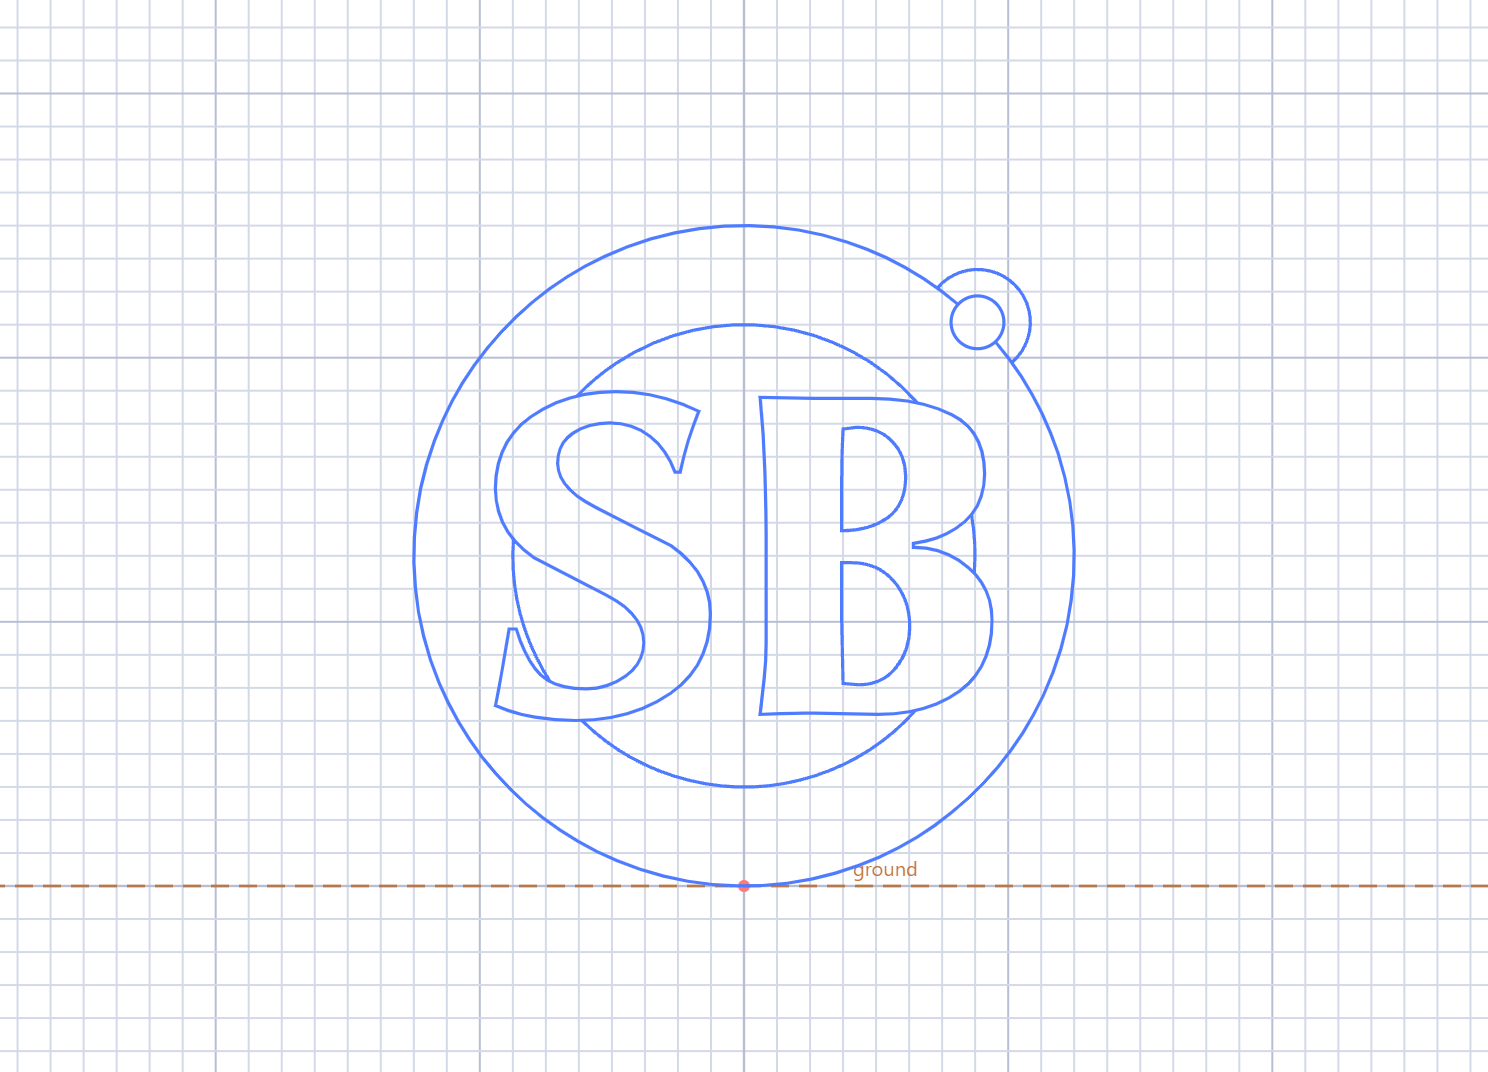
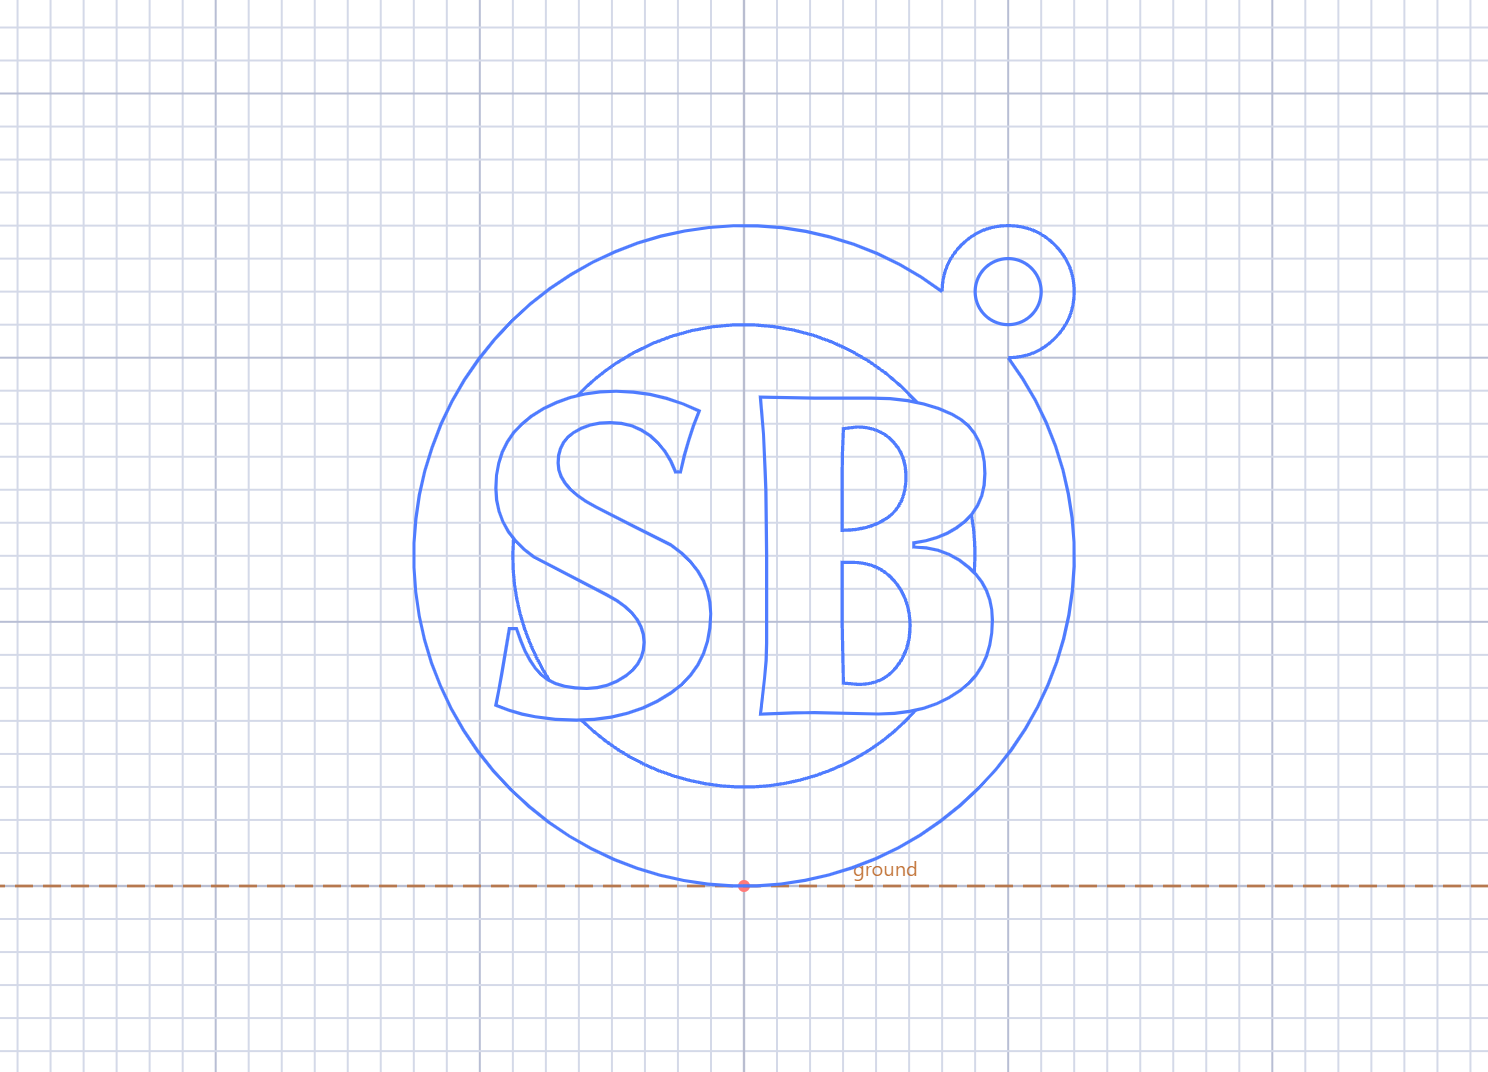
fix(stem-sketch): keychain loop placed clear of the hole; prune stub edges in the region graph; pictures regenerated
- Keychain step 3: the loop is centered on the (1 in, 1 in) grid point
  from the ring's center (r 0.25 / 0.125) instead of ON the outer circle,
  where the circle ran through the loop's hole and a two-click trim left
  the loop bump as a separate region (the loop never got pulled).
- buildPlanarGraph prunes dangling stubs under 1.5 mm: trimmed arcs
  re-tessellate a hair past their cut point and crossed each other.
- All 12 step pictures regenerated with the loop in place.

Changed region(s): [[0.6183, 0.2155, 0.711, 0.3386], [0.6183, 0.4925, 0.6492, 0.5233]]

diff --git a/public/stem-sketch/index.html b/public/stem-sketch/index.html
@@ -10961,10 +10961,30 @@ function buildPlanarGraph(entities, boundary, extraSegs) {
   }
   // Dedupe identical undirected edges
   const seen = new Set();
-  const edges = [];
+  let edges = [];
   for (const e of rawEdges) {
     const k = e.a < e.b ? `${e.a},${e.b}` : `${e.b},${e.a}`;
     if (!seen.has(k)) { seen.add(k); edges.push(e); }
+  }
+  // PRUNE SHORT TAILS. Two trimmed arcs that should meet end-to-end (a loop
+  // joined to a ring) re-tessellate a hair differently from the chords the
+  // trim cut them on, so they cross a fraction of a mm before their ends:
+  // a tiny X with two dangling stubs. The face tracer then splits the loop
+  // bump off as its own face and the ring comes up without its loop
+  // (Charlie 2026-10-16). A dangling edge never bounds a face, so drop any
+  // stub under 1.5 mm hanging off a degree-1 node (iterate: stubs can be
+  // two segments long).
+  for (let pass = 0; pass < 6; pass++) {
+    const deg = new Map();
+    for (const e of edges) { deg.set(e.a, (deg.get(e.a) || 0) + 1); deg.set(e.b, (deg.get(e.b) || 0) + 1); }
+    const keep = edges.filter(e => {
+      const tip = deg.get(e.a) === 1 ? e.a : (deg.get(e.b) === 1 ? e.b : -1);
+      if (tip < 0) return true;
+      const A = nodes[e.a], B = nodes[e.b];
+      return Math.hypot(A.x - B.x, A.y - B.y) >= 1.5;
+    });
+    if (keep.length === edges.length) break;
+    edges = keep;
   }
   return { nodes, edges };
 }
@@ -26450,8 +26470,8 @@ const PROJECTS = [
       },
       {
         img: 'tut/keychain/03-loop.png',
-        text: 'The loop: **Circle** right on the ring at the **top-right**, then click it and **type Radius 0.2** (it’s not a grid size — type it). Another circle at the **same spot**, **Radius 0.1** — the hole the keyring goes through.',
-        hint: 'Center the loop ON the outer circle, half in and half out, so the two overlap.',
+        text: 'The loop: pick **Circle** and click the grid point **8 squares right and 8 squares up** from the ring’s center (1 in over, 1 in up — just outside the top-right of the ring). Set **Radius 0.25**. Another circle at the **same spot**, **Radius 0.125** — the hole the keyring goes through.',
+        hint: 'The loop should bite into the ring a little — that overlap is what the Trim in the next step joins.',
         done: (d) => {
           const tag = _projTagOutline(d);
           if (!tag) return false;
@@ -26460,7 +26480,7 @@ const PROJECTS = [
           for (const sk of (d.sketches || [])) for (const e of (sk.entities || [])) if (e.type === 'circle' && !e.construction && e !== tag.e) circles.push(e);
           return circles.some(o => o.r >= 4 && o.r <= 10 &&
             circles.some(i => i !== o && i.r >= 2 && i.r < o.r - 1 && Math.hypot(i.cx - o.cx, i.cy - o.cy) < 1.5) &&
-            (() => { const dd = Math.hypot(o.cx - tag.bb.cx, o.cy - tag.bb.cy); return dd > R - o.r - 2 && dd < R + o.r - 2; })());
+            (() => { const dd = Math.hypot(o.cx - tag.bb.cx, o.cy - tag.bb.cy); return dd > R - o.r - 2 && dd < R + o.r - 1; })());
         },
       },
       {
